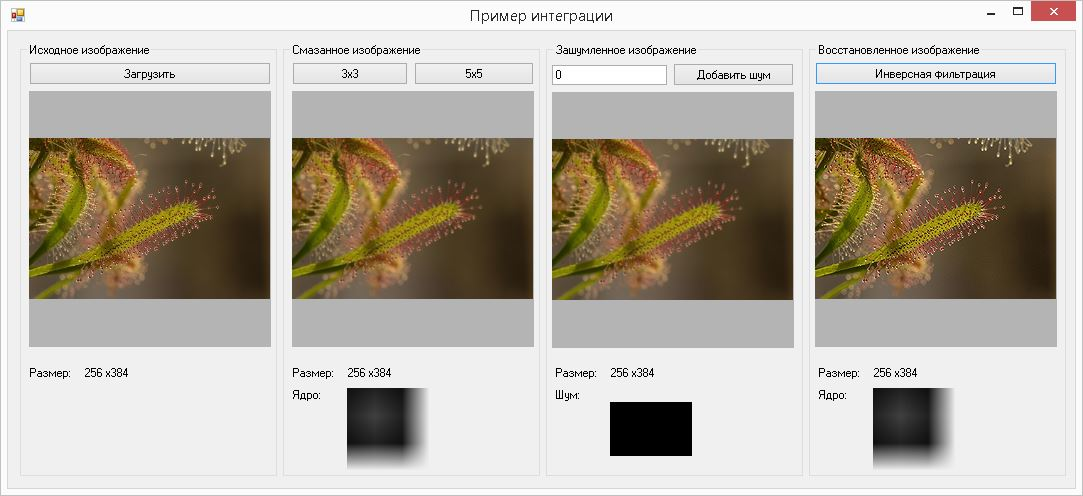
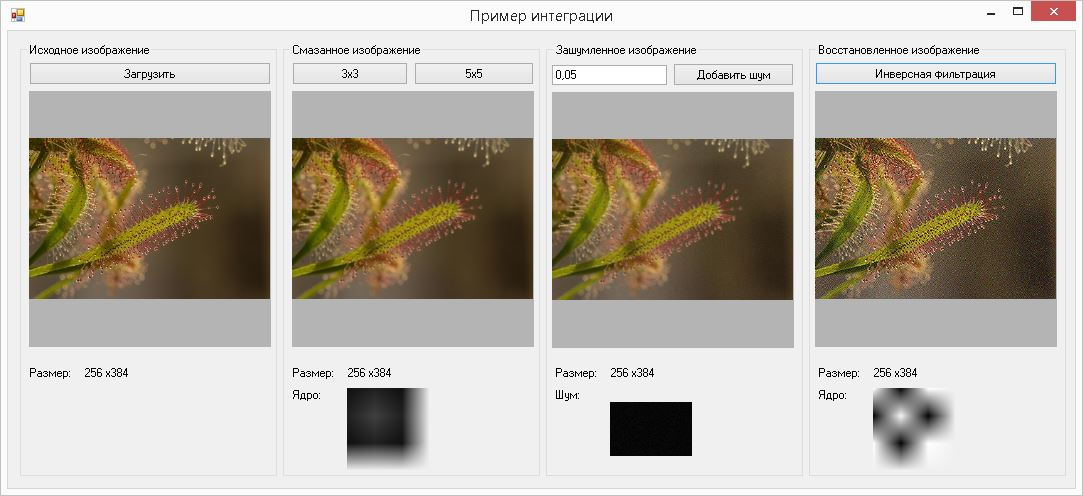
исправлено отображение восстанавливающего фильтра

Changed region(s): [[0.7618, 0.2722, 0.9751, 0.6048], [0.7922, 0.756, 0.8837, 0.9375]]

diff --git a/Form1.cs b/Form1.cs
@@ -280,11 +280,13 @@ public partial class Тест : Form
             {
                 case "InverseButton":
                     filter = blur;
-                    recoveredPictureBox.Image = InverseFiltering.Filtering(noisePictureBox.Image, blur);//filter.Convolution(new Bitmap(noisePictureBox.Image), ConvolutionFilter.ConvolutionMode.expand);
+                    ConvolutionFilter outfilter;
+                    recoveredPictureBox.Image = InverseFiltering.Filtering(noisePictureBox.Image, blur, out outfilter);
+                    filter = outfilter;
                     break;
 
             }
-            //выводим дополнительную информацию
+            //выводим дополнительную информациюC
             try
             {
                 ChangeText(recoveredSizeText, recoveredPictureBox.Image.Height + " x" + recoveredPictureBox.Image.Width);
